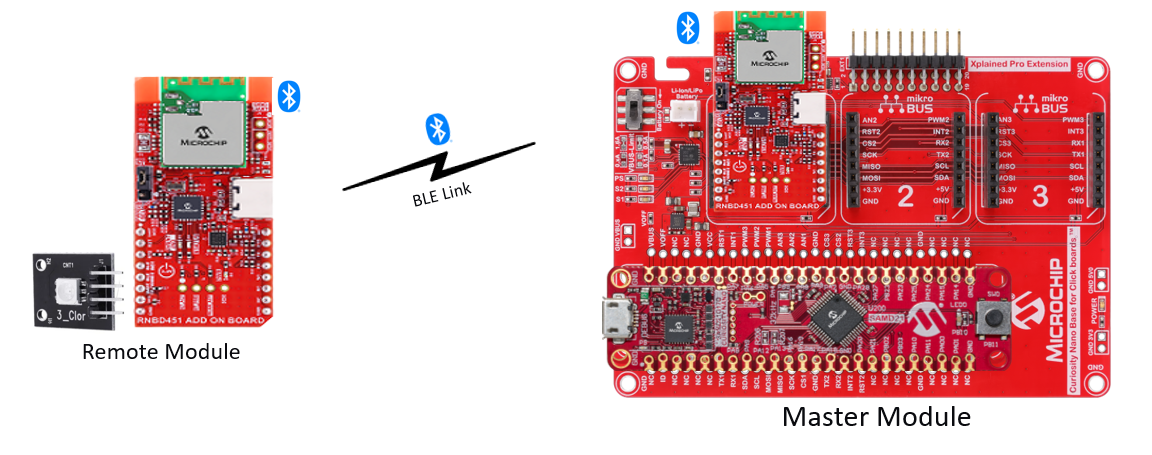
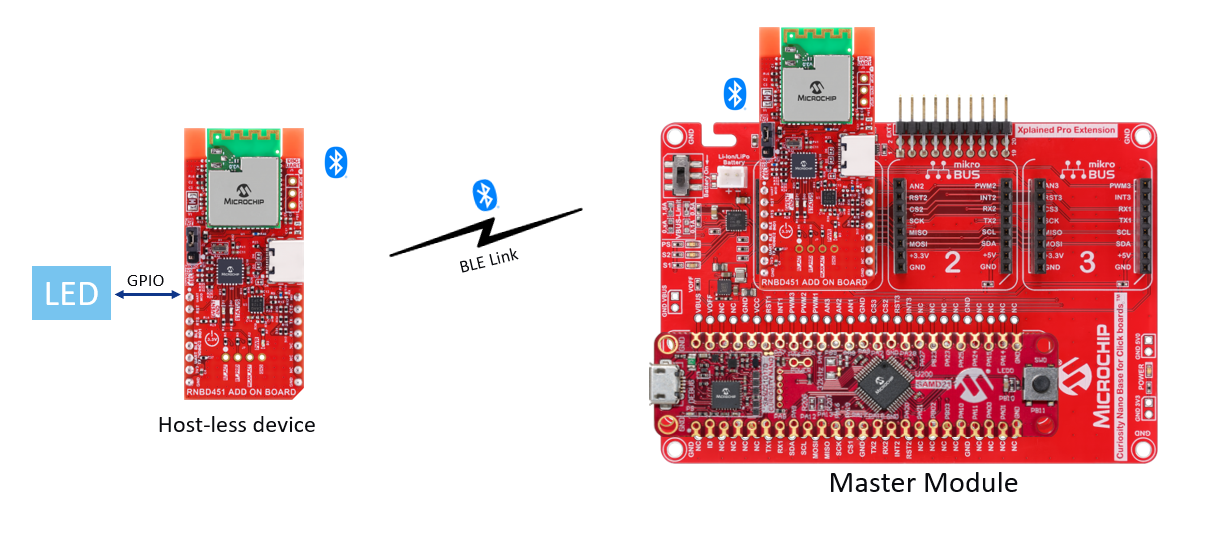
Modified Docs

diff --git a/README.md b/README.md
@@ -31,8 +31,12 @@ Checkout the <a href="https://microchipsupport.force.com/s/" target="_blank">Tec
 
 ## 1. Introduction<a name="step1">
 
-This application demonstrates the RNBD451 remote command feature. Two RNBD451 modules will be used for implementing the Remote command feature. One will be called the Master Module and the other will be Remote Module. The Master Module is connected to a host MCU device and is in control of the Remote Module. The Remote Module is host-less configured to connect to the Master module. On initialization the master module will establish a connection with the remote module and will be in Remote Command mode of the RNBD451 Remote/host-less Module. Once the user Button on Host MCU is pressed the LED connected to the remote module will be toggled. 
+This application demonstrates the RNBD451 remote command feature. This feature allows the control of an RNBD451 module without the use of a host microcontroller remotely from either another RNBD451 module or a mobile application. The remote command feature works by using a special BLE GATT service that emulates a wireless serial connection called transparent UART mode. This combined with a unique command set allows remote functionality of the module. Two RNBD451 modules will be used for implementing the Remote command feature. One will be called the Master Module and the other will be Remote Module. The Master Module is connected to a host MCU device and is in control of the Remote Module. The Remote Module is host-less configured to connect to the Master module. 
+
 ![](Docs/Setup.PNG)
+
+This application uses SAMD21 Curiosity Nano board as the host for the Master module. On initialization the master module will establish a connection with the remote module and will be in Remote Command mode of the RNBD451 Remote/host-less Module. Once the user Button on Host MCU is pressed the LED connected to the remote module will be toggled. 
+
 
 ## 2. Bill of materials<a name="step2">
 
@@ -62,10 +66,13 @@ This application demonstrates the RNBD451 remote command feature. Two RNBD451 mo
 
 - [Microchip Bluetooth Data (MBD app)](https://play.google.com/store/apps/details?id=com.microchip.bluetooth.data&hl=en&gl=US)
 
+- Any Android terminal application like [Serial USB Terminal](https://play.google.com/store/apps/details?id=de.kai_morich.serial_usb_terminal)
+
 
 ## 4. Hardware Setup<a name="step4">
 
 - Connect the SAMD21 Curiosity Nano board to the Curiosity nano base board. In the Mikro bus click 1 Socket connect the RNBD451 Add on board. Make sure the Power select jumper is placed for Mikro bus.
+- In the RNBD451 Add on Board, the gpio pins are not brought out. For this application, the GPIO pin PA0 in the Remote module is connected to an NC pin on the Mikro Bus header. 
 
 ## 5. Harmony MCC Configuration<a name="step5">
 
